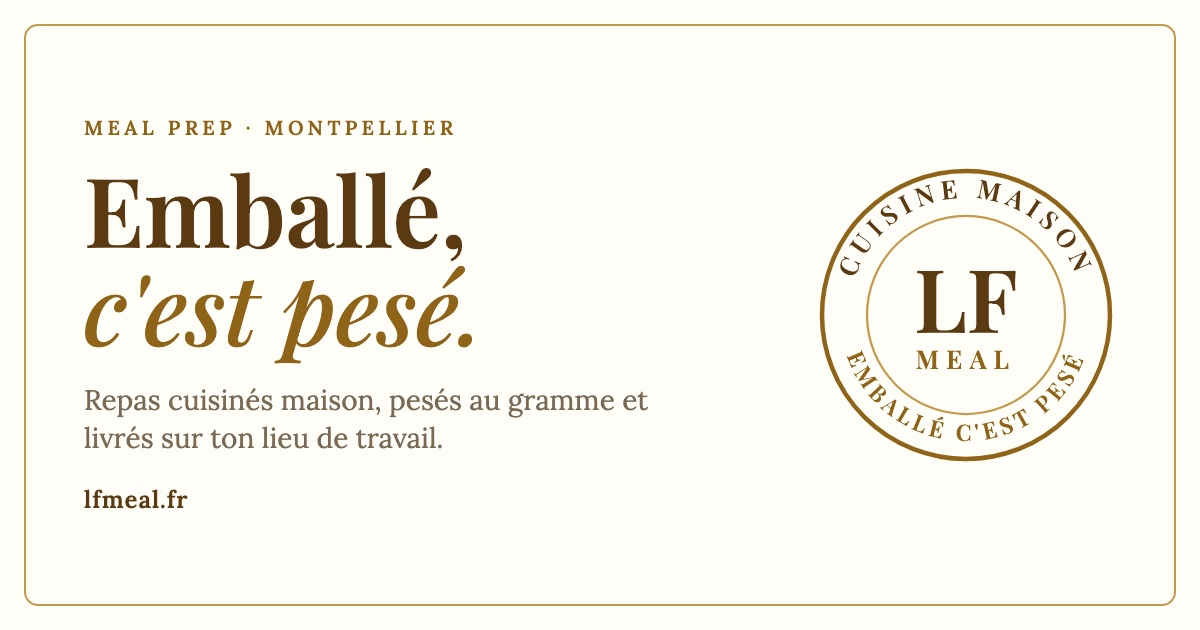
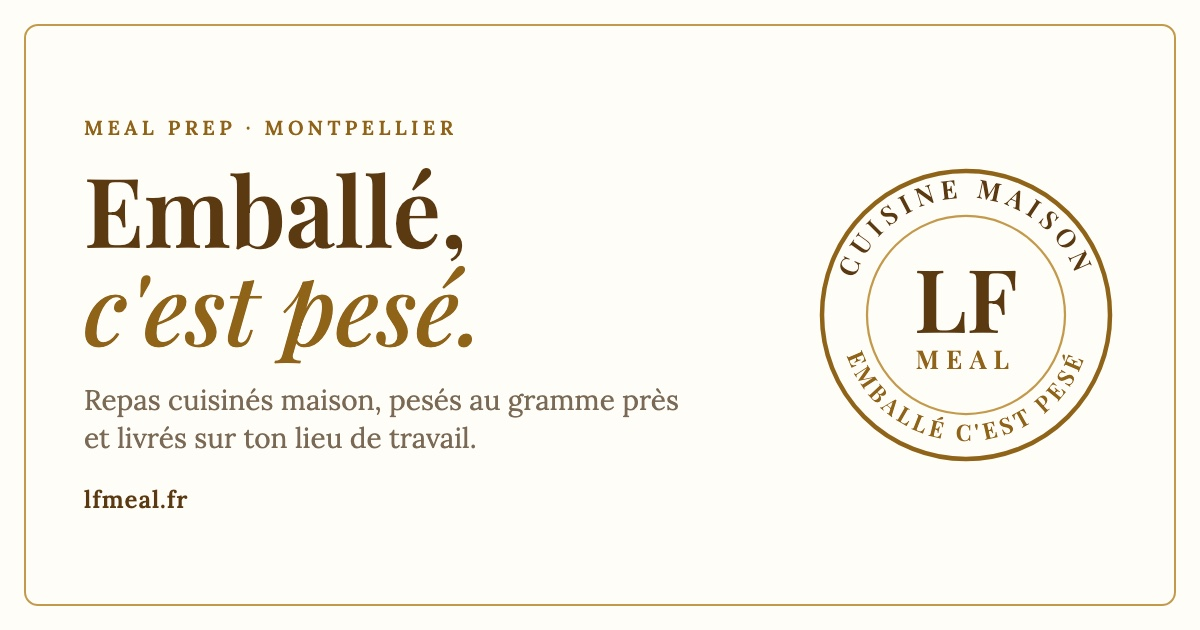
Pesé au gramme près partout + image de partage mise à jour

Changed region(s): [[0.0617, 0.6635, 0.4008, 0.7238], [0.5242, 0.6032, 0.5858, 0.6635]]

diff --git a/index.html b/index.html
@@ -5,8 +5,8 @@
 <meta name="viewport" content="width=device-width, initial-scale=1">
 <meta http-equiv="Content-Security-Policy" content="default-src 'self'; script-src 'self' 'unsafe-inline' https://assets.calendly.com; style-src 'self' 'unsafe-inline' https://fonts.googleapis.com https://assets.calendly.com; font-src 'self' https://fonts.gstatic.com; img-src 'self' data: https:; frame-src https://calendly.com; connect-src 'self' https://api.web3forms.com https://calendly.com; base-uri 'self'; form-action 'self'; object-src 'none'; upgrade-insecure-requests">
 <meta name="referrer" content="strict-origin-when-cross-origin">
-<title>Meal prep à Montpellier, pesé au gramme | LF Meal</title>
-<meta name="description" content="Repas cuisinés maison, pesés au gramme avec les macros, livrés sur ton lieu de travail à Montpellier. Abonnement avec bilan et suivi. Essai : 149 €.">
+<title>Meal prep à Montpellier, pesé au gramme près | LF Meal</title>
+<meta name="description" content="Repas cuisinés maison, pesés au gramme près avec les macros, livrés sur ton lieu de travail à Montpellier. Abonnement avec bilan et suivi. Essai : 149 €.">
 <link rel="canonical" href="https://lfmeal.fr/">
 <meta name="theme-color" content="#5B3A12">
 <link rel="icon" href="/favicon.ico" sizes="32x32">
@@ -18,14 +18,14 @@
 <meta property="og:url" content="https://lfmeal.fr/">
 <meta property="og:type" content="website">
 <meta property="og:title" content="LF Meal — Emballé, c'est pesé.">
-<meta property="og:description" content="Repas cuisinés maison, pesés au gramme et livrés au bureau à Montpellier, avec un suivi mensuel. Dès 14,09 € le repas.">
+<meta property="og:description" content="Repas cuisinés maison, pesés au gramme près et livrés au bureau à Montpellier, avec un suivi mensuel. Dès 14,09 € le repas.">
 <meta property="og:image" content="https://lfmeal.fr/og-image.jpg">
 <meta property="og:image:width" content="1200">
 <meta property="og:image:height" content="630">
-<meta property="og:image:alt" content="LF Meal — Emballé, c'est pesé. Repas pesés au gramme, livrés au bureau à Montpellier.">
+<meta property="og:image:alt" content="LF Meal — Emballé, c'est pesé. Repas pesés au gramme près, livrés au bureau à Montpellier.">
 <meta name="twitter:card" content="summary_large_image">
 <meta name="twitter:title" content="LF Meal — Emballé, c'est pesé.">
-<meta name="twitter:description" content="Repas cuisinés maison, pesés au gramme et livrés au bureau à Montpellier.">
+<meta name="twitter:description" content="Repas cuisinés maison, pesés au gramme près et livrés au bureau à Montpellier.">
 <meta name="twitter:image" content="https://lfmeal.fr/og-image.jpg">
 <script type="application/ld+json">
 {
@@ -37,7 +37,7 @@
       "name": "LF Meal",
       "alternateName": "LFMEAL",
       "slogan": "Emballé, c'est pesé.",
-      "description": "Repas cuisinés maison, pesés au gramme avec les macros (calories, protéines, glucides, lipides), livrés sur le lieu de travail à Montpellier. Abonnement mensuel avec bilan de 90 minutes, protocole et point mensuel.",
+      "description": "Repas cuisinés maison, pesés au gramme près avec les macros (calories, protéines, glucides, lipides), livrés sur le lieu de travail à Montpellier. Abonnement mensuel avec bilan de 90 minutes, protocole et point mensuel.",
       "url": "https://lfmeal.fr/",
       "image": "https://lfmeal.fr/og-image.jpg",
       "logo": "https://lfmeal.fr/og-image.jpg",
@@ -397,7 +397,7 @@
     <div class="wrap hero-grid">
       <div class="stack">
         <h1><span class="eyebrow h1-kw">Meal prep à Montpellier · Chef &amp; nutrition</span><span class="l"><span>Emballé,</span></span><span class="l"><em>c'est <span class="pese">pesé.</span></em></span></h1>
-        <p class="lead">Tes déjeuners et tes dîners, cuisinés maison et pesés au gramme pour tes objectifs, livrés sur ton lieu de travail à Montpellier. Tu réchauffes, tu manges, tu retournes bosser.</p>
+        <p class="lead">Tes déjeuners et tes dîners, cuisinés maison et pesés au gramme près pour tes objectifs, livrés sur ton lieu de travail à Montpellier. Tu réchauffes, tu manges, tu retournes bosser.</p>
         <div class="hero-ctas">
           <a class="btn btn-or" href="#reserver">Réserver mon appel de 20 min →</a>
           <a class="btn btn-ligne" href="#formules">Voir les formules</a>
@@ -424,7 +424,7 @@
     <div class="wrap">
       <div class="chiffre"><b>Jusqu'à 66 g</b><span>de protéines par plat</span></div>
       <div class="chiffre"><b>12 plats</b><span>à la carte, qui tournent</span></div>
-      <div class="chiffre"><b>Au gramme</b><span>macros sur chaque étiquette</span></div>
+      <div class="chiffre"><b>Au gramme près</b><span>macros sur chaque étiquette</span></div>
       <div class="chiffre"><b>Au bureau</b><span>livré chaque semaine</span></div>
     </div>
   </div>
@@ -440,7 +440,7 @@
         <p>De 15 à 19 ans, j’ai testé <strong>à peu près toutes les diètes possibles</strong>. J’ai calculé <strong>mon propre métabolisme de base</strong>, pesé chaque repas, compté chaque gramme de protéines.</p>
         <p class="maths">Ce que j’en ai retenu : pour moi, <b>ça n’a été que des maths.</b></p>
         <p>Et la seule diète qu’on tient sur la durée, c’est <strong>celle qu’on prend plaisir à manger</strong>.</p>
-        <p>C’est ce que je cuisine pour toi aujourd’hui : des repas qui ont du goût, pesés au gramme, avec les macros sur chaque étiquette. Ton objectif, on en parle dès la visio.</p>
+        <p>C’est ce que je cuisine pour toi aujourd’hui : des repas qui ont du goût, pesés au gramme près, avec les macros sur chaque étiquette. Ton objectif, on en parle dès la visio.</p>
       </div>
     </div>
   </section>
@@ -472,7 +472,7 @@
       <div class="etapes-grid">
         <div class="etape reveal"><h3>Le bilan</h3><p>90 minutes ensemble : tes objectifs, ton rythme, ton activité physique, ce que tu aimes et ce que tu ne manges pas.</p></div>
         <div class="etape reveal"><h3>Ton protocole</h3><p>Tes apports et tes macros sont calculés pour toi. Chaque plat est ajusté en conséquence.</p></div>
-        <div class="etape reveal"><h3>Cuisiné, pesé</h3><p>Chaque portion est cuisinée, pesée au gramme et étiquetée à ton prénom avec ses valeurs.</p></div>
+        <div class="etape reveal"><h3>Cuisiné, pesé</h3><p>Chaque portion est cuisinée, pesée au gramme près et étiquetée à ton prénom avec ses valeurs.</p></div>
         <div class="etape reveal"><h3>Livré &amp; suivi</h3><p>Livraison chaque semaine au bureau, un point de 30 minutes chaque mois, et un canal direct entre-temps.</p></div>
       </div>
     </div>
@@ -510,7 +510,7 @@
         <table>
           <thead><tr><th></th><th>Livraison de restaurant</th><th>Plats préparés industriels</th><th class="nous">LF Meal</th></tr></thead>
           <tbody>
-            <tr><td>Macros calculées pour toi</td><td class="non">—</td><td class="non">Standard</td><td class="nous"><span class="oui">✓</span> Au gramme</td></tr>
+            <tr><td>Macros calculées pour toi</td><td class="non">—</td><td class="non">Standard</td><td class="nous"><span class="oui">✓</span> Au gramme près</td></tr>
             <tr><td>Cuisiné à la main, à Montpellier</td><td>Variable</td><td class="non">—</td><td class="nous"><span class="oui">✓</span></td></tr>
             <tr><td>Bilan et point mensuel</td><td class="non">—</td><td class="non">—</td><td class="nous"><span class="oui">✓</span></td></tr>
             <tr><td>Ajusté à tes goûts et allergies</td><td>Au cas par cas</td><td class="non">—</td><td class="nous"><span class="oui">✓</span></td></tr>
@@ -623,7 +623,7 @@
         <details><summary>Où et quand livrez-vous ?</summary><p>À Montpellier, directement sur ton lieu de travail (bureau, coworking), le <b>lundi et le jeudi entre 10 h et 11 h 30</b>. Tu reçois un message dès que tes repas sont au frais. On vérifie ton adresse pendant l’appel découverte.</p></details>
         <details><summary>Comment je réchauffe mes repas ?</summary><p>Au micro-ondes, en quelques minutes. Retire simplement le couvercle avant de réchauffer : la barquette, elle, passe au micro-ondes.</p></details>
         <details><summary>Comment je conserve les repas ?</summary><p>Au réfrigérateur, entre 0 et +4 °C. La date limite de consommation est indiquée sur chaque étiquette.</p></details>
-        <details><summary>LF Meal, c'est du meal prep ?</summary><p>Oui, en plus précis. Comme le meal prep, tes repas de la semaine sont préparés à l'avance. Mais ici, ils sont cuisinés pour toi, pesés au gramme selon tes objectifs, étiquetés avec les macros et livrés sur ton lieu de travail. Tu n'as ni courses, ni cuisine, ni vaisselle.</p></details>
+        <details><summary>LF Meal, c'est du meal prep ?</summary><p>Oui, en plus précis. Comme le meal prep, tes repas de la semaine sont préparés à l'avance. Mais ici, ils sont cuisinés pour toi, pesés au gramme près selon tes objectifs, étiquetés avec les macros et livrés sur ton lieu de travail. Tu n'as ni courses, ni cuisine, ni vaisselle.</p></details>
         <details><summary>Combien coûte un repas ?</summary><p>À partir de 14,09 € le repas avec la formule 7/7, et 14,73 € avec la formule 5/7. Le bilan, le protocole, la livraison et le point mensuel sont compris. Tu peux commencer par la semaine d'essai : 10 repas pour 149 €.</p></details>
         <details><summary>Quelle différence avec Uber Eats ou une box repas ?</summary><p>Une box ou une appli te livre un plat standard. Ici, tu as un cuisinier qui connaît tes objectifs : portions pesées pour toi, macros affichées, menus ajustés chaque mois et un contact direct. C'est un accompagnement dont les repas sont le moyen.</p></details>
         <details><summary>Et si j'ai des allergies ou des aliments que je n'aime pas ?</summary><p>C'est vu pendant le bilan. Les plats sont adaptés, et les allergènes de chaque plat sont indiqués sur la carte et sur chaque étiquette.</p></details>
@@ -753,7 +753,7 @@
     { "@type": "Question", "name": "Où et quand livrez-vous ?", "acceptedAnswer": { "@type": "Answer", "text": "À Montpellier, directement sur ton lieu de travail (bureau, coworking), le lundi et le jeudi entre 10 h et 11 h 30. Tu reçois un message dès que tes repas sont au frais. On vérifie ton adresse pendant l’appel découverte." } },
     { "@type": "Question", "name": "Comment je réchauffe mes repas ?", "acceptedAnswer": { "@type": "Answer", "text": "Au micro-ondes, en quelques minutes. Retire simplement le couvercle avant de réchauffer : la barquette, elle, passe au micro-ondes." } },
     { "@type": "Question", "name": "Comment je conserve les repas ?", "acceptedAnswer": { "@type": "Answer", "text": "Au réfrigérateur, entre 0 et +4 °C. La date limite de consommation est indiquée sur chaque étiquette." } },
-    { "@type": "Question", "name": "LF Meal, c'est du meal prep ?", "acceptedAnswer": { "@type": "Answer", "text": "Oui, en plus précis. Comme le meal prep, tes repas de la semaine sont préparés à l'avance. Mais ici, ils sont cuisinés pour toi, pesés au gramme selon tes objectifs, étiquetés avec les macros et livrés sur ton lieu de travail. Tu n'as ni courses, ni cuisine, ni vaisselle." } },
+    { "@type": "Question", "name": "LF Meal, c'est du meal prep ?", "acceptedAnswer": { "@type": "Answer", "text": "Oui, en plus précis. Comme le meal prep, tes repas de la semaine sont préparés à l'avance. Mais ici, ils sont cuisinés pour toi, pesés au gramme près selon tes objectifs, étiquetés avec les macros et livrés sur ton lieu de travail. Tu n'as ni courses, ni cuisine, ni vaisselle." } },
     { "@type": "Question", "name": "Combien coûte un repas ?", "acceptedAnswer": { "@type": "Answer", "text": "À partir de 14,09 € le repas avec la formule 7/7, et 14,73 € avec la formule 5/7. Le bilan, le protocole, la livraison et le point mensuel sont compris. Tu peux commencer par la semaine d'essai : 10 repas pour 149 €." } },
     { "@type": "Question", "name": "Quelle différence avec Uber Eats ou une box repas ?", "acceptedAnswer": { "@type": "Answer", "text": "Une box ou une appli te livre un plat standard. Ici, tu as un cuisinier qui connaît tes objectifs : portions pesées pour toi, macros affichées, menus ajustés chaque mois et un contact direct. C'est un accompagnement dont les repas sont le moyen." } },
     { "@type": "Question", "name": "Et si j'ai des allergies ou des aliments que je n'aime pas ?", "acceptedAnswer": { "@type": "Answer", "text": "C'est vu pendant le bilan. Les plats sont adaptés, et les allergènes de chaque plat sont indiqués sur la carte et sur chaque étiquette." } },

diff --git a/404.html b/404.html
@@ -25,7 +25,7 @@
   <main>
     <div class="eyebrow">Erreur 404</div>
     <h1>Cette page<br><em>n'est pas au menu.</em></h1>
-    <p>Elle n'existe pas ou a changé d'adresse. Tout le reste est pesé au gramme, promis.</p>
+    <p>Elle n'existe pas ou a changé d'adresse. Tout le reste est pesé au gramme près, promis.</p>
     <a href="https://lfmeal.fr/">Retour à l'accueil →</a>
   </main>
 </body>

diff --git a/README.md b/README.md
@@ -2,7 +2,7 @@
 
 **➡ Le site officiel : [https://lfmeal.fr](https://lfmeal.fr)**
 
-Repas cuisinés maison, pesés au gramme et livrés sur ton lieu de travail à Montpellier. Abonnement mensuel avec bilan, protocole et suivi.
+Repas cuisinés maison, pesés au gramme près et livrés sur ton lieu de travail à Montpellier. Abonnement mensuel avec bilan, protocole et suivi.
 
 - Site : [lfmeal.fr](https://lfmeal.fr)
 - Instagram : [@lf_meal](https://instagram.com/lf_meal)
